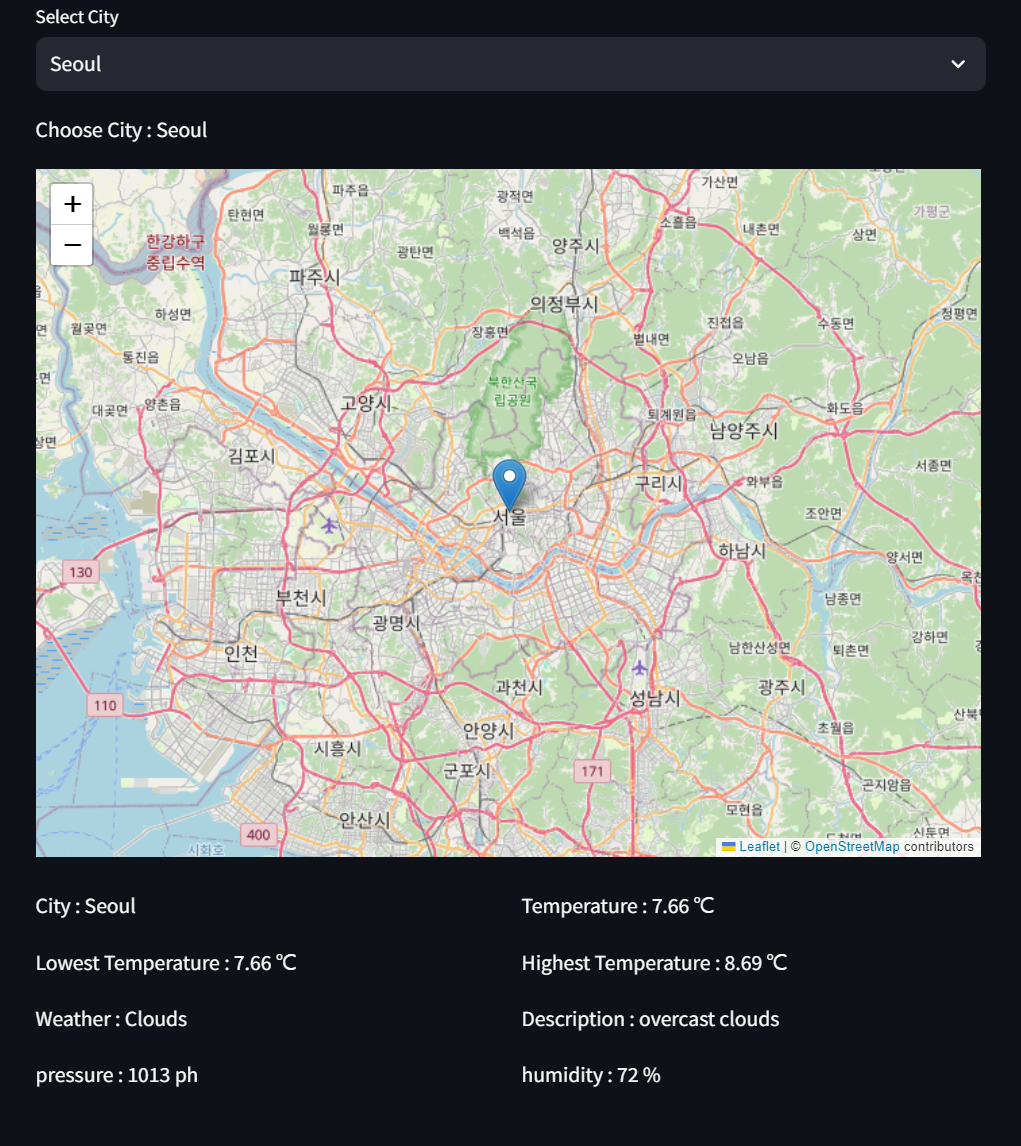
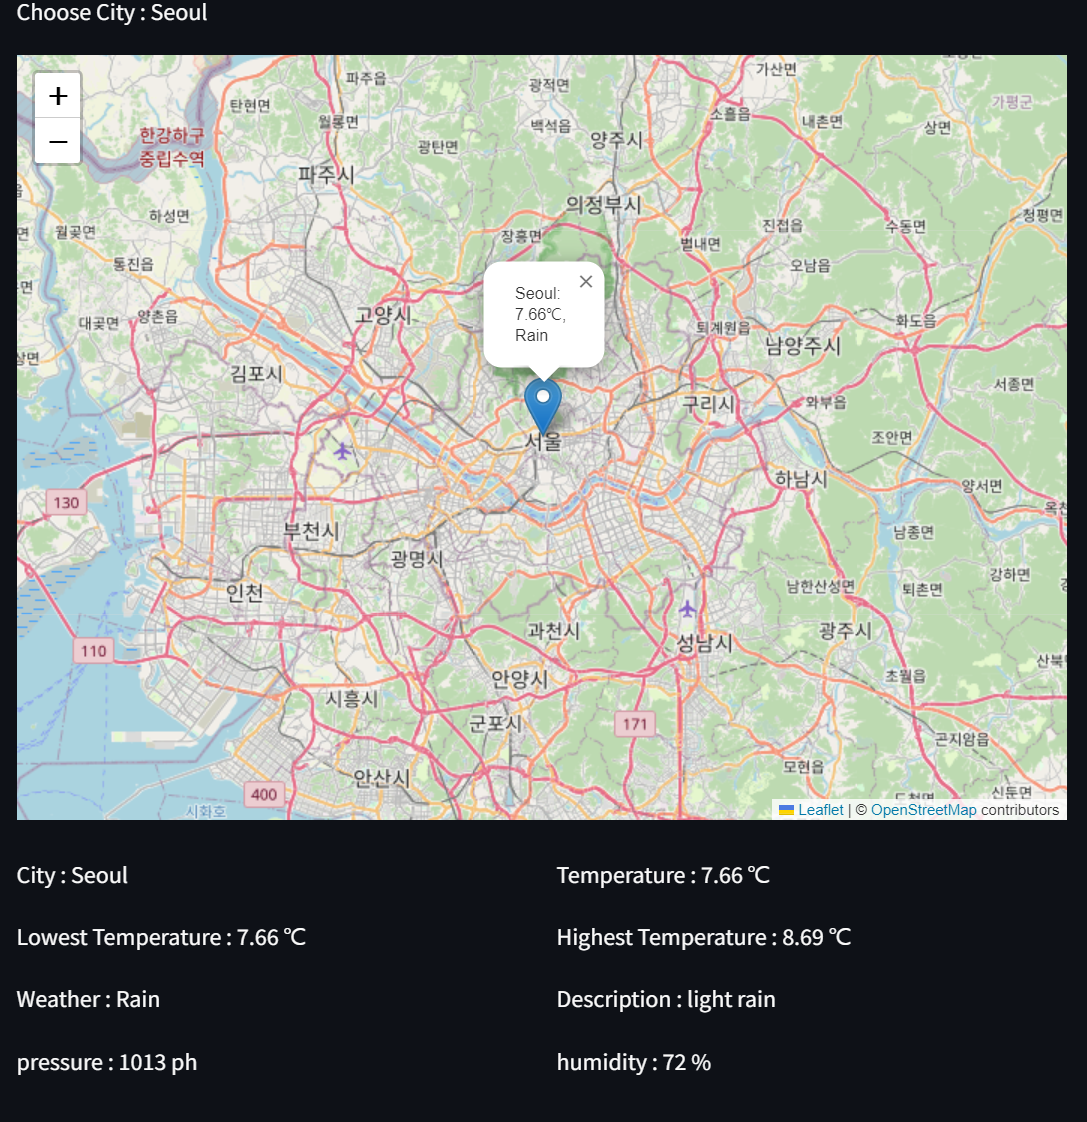
add

diff --git a/README.md b/README.md
@@ -3,5 +3,25 @@
 
 - 원하는 지역을 선택하여 현재기온, 최고/저 온도확인, 날씨정보 등 다양한 정보제공을 위해 제작
   
-- SideBar (프로젝트에 관한 설명, 지역별 날씨 및 온도 정보, 지난 검색 데이터)
+- *SideBar (프로젝트에 관한 설명, 지역별 날씨 및 온도 정보, 지난 검색 데이터)*
+
 ![SideBar](/img/1.png "")
+
+*Open API*
+- 간단한 설명
+![SideBar](/img/2.png "")
+
+*지역별 기온 및 날씨정보*
+- 원하는 지역 선택
+![SideBar](/img/4.png "")
+
+- 지역 선택시 해당 지역 지도출력/마크 클릭시 간단한 정보 표시
+![SideBar](/img/3.png "")
+
+- 실시간 5일 예측데이터 기온 그래프 표시
+![SideBar](/img/5.png "")
+
+*지난 검색 데이터*
+- 해당 부분은 아직 미완성 부분
+- 날짜별로 지역에대한 최저/최고온도 부분을 데이터로 저장 할 수 있도록 업데이트 예정입니다.
+![SideBar](/img/6.png "")
